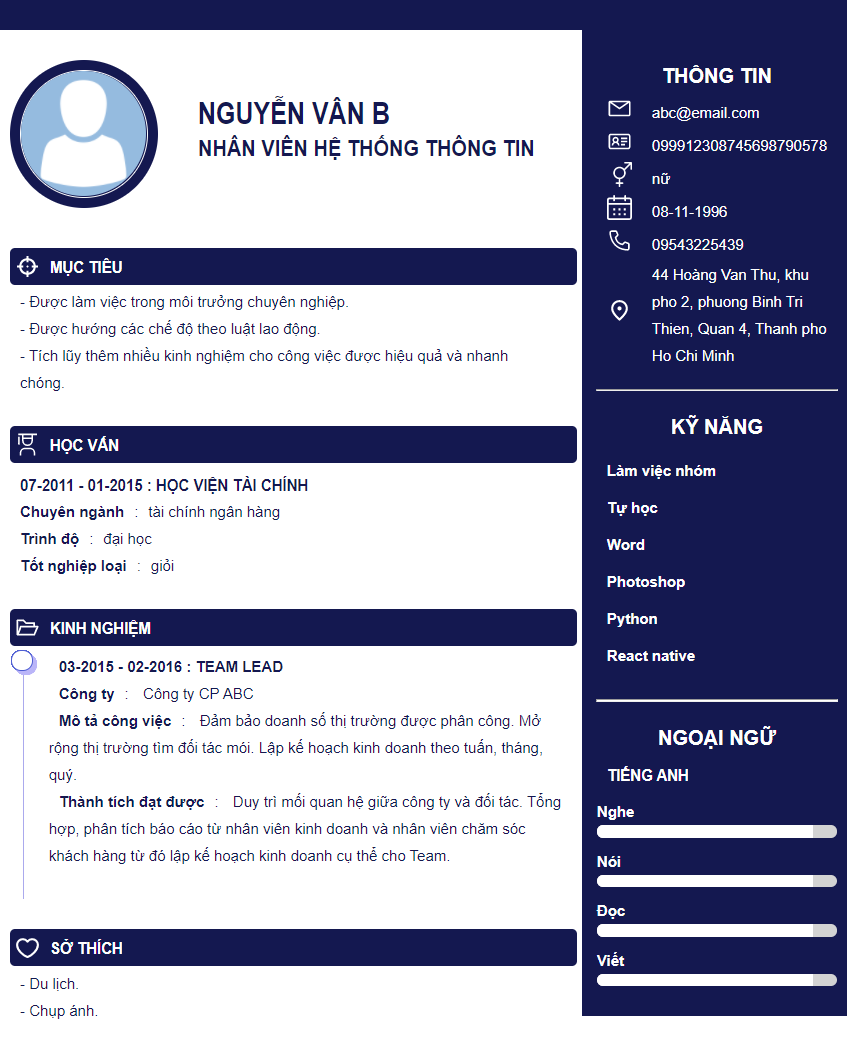
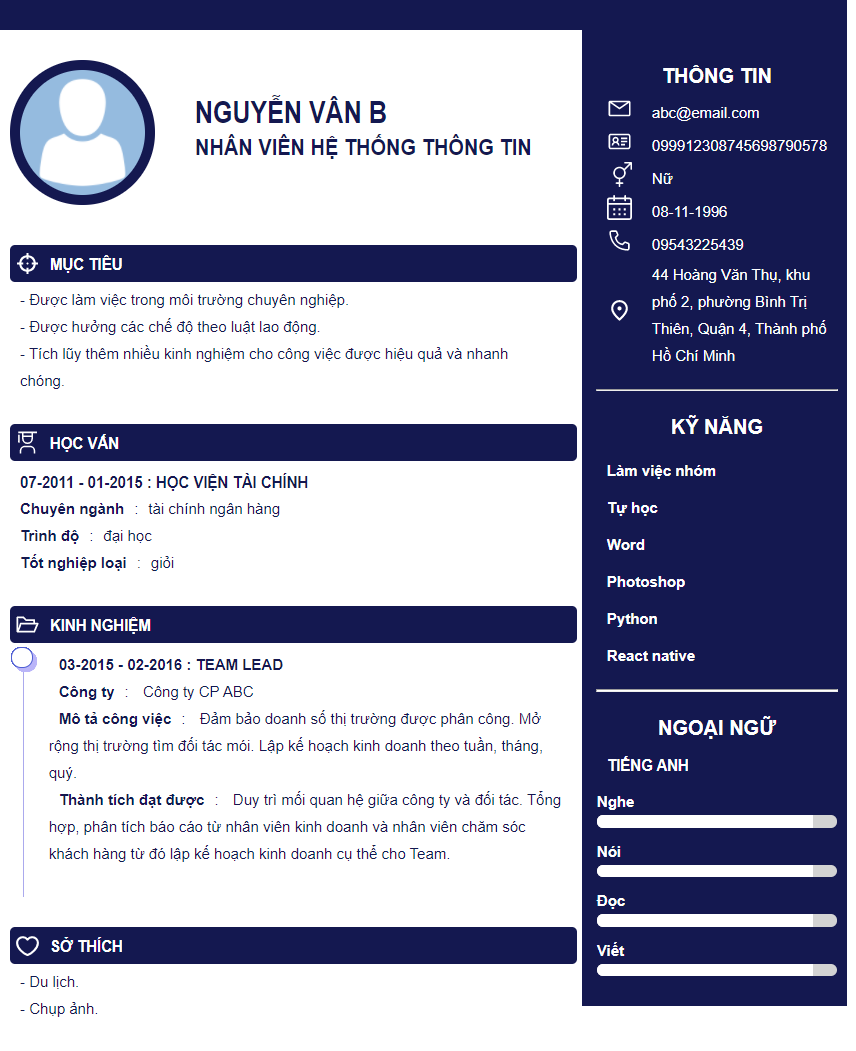
berries before

diff --git a/base.html b/base.html
@@ -11,7 +11,7 @@
     body {
         font-family: Arial, Helvetica, sans-serif;
         background-color: white;
-        color: teal;
+        color: #264143;
         margin: 0px;
         padding: 0px;
     }
@@ -70,14 +70,14 @@
     div.icon {
         padding: 8px;
         border-radius: 100px;
-        background-color: teal;
+        background-color: #264143;
     }
 
     hr {
         width: 100%;
         margin: 0px;
         margin-top: 16px;
-        border-top: 1px solid teal;
+        border-top: 1px solid #264143;
     }
 
     ul {
@@ -85,6 +85,7 @@
         padding: 0px;
         list-style-type: none;
         align-self: flex-start;
+        width: 100%;
     }
 
     ul li {
@@ -103,15 +104,26 @@
     }
 
     ul.profile.myself li span:nth-child(1) {
-        width: 80px;
+        min-width: 60px;
+        max-width: 150px;
+    }
+
+    ul.profile.language li {
+        flex-direction: column;
+        align-items: flex-start;
     }
 
     ul.profile.language li span:nth-child(1) {
-        width: 80px;
+        width: 100%;
+        margin-top: 8px;
+    }
+
+    ul.profile.language li div {
+        width: 100%;
     }
 
     div.bar-border {
-        width: 200px;
+        width: 100%;
         height: 10px;
         align-items: flex-start;
         border-radius: 100px;
@@ -121,7 +133,7 @@
 
     div.bar-score {
         height: 10px;
-        background-color: teal;
+        background-color: #264143;
     }
 
     .margin-base {
@@ -137,6 +149,15 @@
         height: 20px;
     }
 
+    li.timeline {
+        flex-direction: column;
+        align-items: flex-start;
+    }
+
+    p {
+        margin: 0;
+    }
+
     </style>
 </head>
 
@@ -145,12 +166,12 @@
         <div style="
         width: 40%;
         padding: 24px 12px 24px 8px;
-        border: 0px solid teal;
+        border: 0px solid #264143;
         border-right-width: 1px;
         ">
             <div class="icon" style="margin-bottom: 8px;">
-                <img style="border-radius: 100px;border: 1px solid white;" 
-                src= "https://res.cloudinary.com/good-assistant/image/upload/v1625845365/avatar/jxvswvdssyjedva5eql7.jpg"
+                <img style="border-radius: 50%;" 
+                src= "https://cdn.pixabay.com/photo/2016/08/08/09/17/avatar-1577909_960_720.png"
                 alt="Avatar" width="100" height="100">
             </div>
             <hr>
@@ -187,8 +208,8 @@
                     <span>09543225439</span>
                 </li>
                 <li>
-                    <span>Địa chi</span>
-                    <span>44 Hoàng Văn Thụ, khu phố 2, phường Bình Trị Thiên, Quận 4, Thành phố Hồ Chí Minh</span>
+                    <span>Địa chỉ</span>
+                    <span>44 Hoàng Văn Thụ, khu phố 2, phường Bình Trị Thiên</span>
                 </li>
             </ul>
             <div class="icon margin-padding">
@@ -201,12 +222,8 @@
             <hr>
             <h2 class="title">KỸ NĂNG</h2>
             <ul class="margin-base">
-                <li><span>làm việc nhóm</span></li>
-                <li><span>Tự học</span></li>
                 <li><span>word</span></li>
                 <li><span>photoshop</span></li>
-                <li><span>Python</span></li>
-                <li><span>react native</span></li>
             </ul>
             <div class="icon margin-padding">
                 <svg xmlns="http://www.w3.org/2000/svg" xmlns:xlink="http://www.w3.org/1999/xlink" aria-hidden="true" role="img" width="25" height="25" preserveAspectRatio="xMidYMid meet" viewBox="0 0 48 48">
@@ -215,7 +232,9 @@
             <hr>
             <h2 class="title">sở THÍCH</h2>
             <ul class="margin-base">
-                <li><span>Du lịch, chụp ánh.</span></li>
+                <li><span>Du lịch.</span></li>
+                <li><span>chụp ảnh.</span></li>
+
             </ul>
             <div class="icon margin-padding">
                 <svg xmlns="http://www.w3.org/2000/svg" xmlns:xlink="http://www.w3.org/1999/xlink" aria-hidden="true" role="img" width="25" height="25" preserveAspectRatio="xMidYMid meet" viewBox="0 0 32 32">
@@ -232,19 +251,19 @@
             <h2 class="title">NGƯỜI THAM KHẢO</h2>
             <ul class="profile margin-base">
                 <li>
-                    <h3>NGUYÊN VĂN B</h3>
+                    <h3>Tân Logic</h3>
                 </li>
                 <li>
                     <span>Công ty</span>:
-                    <span>Công ty CP ABC</span>
+                    <span>Tapcode</span>
                 </li>
                 <li>
                     <span>chức vụ</span>:
-                    <span>Phó giám đốc</span>
+                    <span>Tác giả</span>
                 </li>
                 <li>
                     <span>Email</span>:
-                    <span>nguyenvanb@gmail.com</span>
+                    <span>help@tapcode.cf</span>
                 </li>
                 <li>
                     <span>Điện thoại</span>:
@@ -271,20 +290,20 @@
             <hr>
             <h2 class="title">kinh nghiệm</h2>
             <ul class="profile margin-base">
-                <li>
-                    <h3 class="margin-base">03-2015 - 02-2016 : TEAM LEAD</h3>
-                </li>
-                <li>
-                    <span>Công ty</span>:
-                    <span>Công ty CP ABC</span>
-                </li>
-                <li>
-                    <span>Mô tả công việc</span>:
-                    <span>Đảm bảo doanh số thị trường được phân công. Mở rộng thị trường tìm đối tác mói. Lập kế hoạch kinh doanh theo tuần, tháng, quý.</span>
-                </li>
-                <li>
-                    <span>Thành tích đạt được</span>:
-                    <span>Duy trì mối quan hệ giữa công ty và đối tác. Tổng hợp, phân tích báo cáo từ nhân viên kinh doanh và nhân viên chăm sóc khách hàng từ đó lập kế hoạch kinh doanh cụ thể cho Team.</span>
+                <li class="timeline">
+                    <span class="margin-base">03-2015 - 02-2016 : TEAM LEAD</span>
+                    <p>
+                        <span>Công ty</span>:
+                        <span>Công ty CP ABC</span>
+                    </p>
+                    <p>
+                        <span>Mô tả công việc</span>:
+                        <span>Đảm bảo doanh số thị trường được phân công. Mở rộng thị trường tìm đối tác mói. Lập kế hoạch kinh doanh theo tuần, tháng, quý.</span>
+                    </p>
+                    <p>
+                        <span>Thành tích đạt được</span>:
+                        <span>Duy trì mối quan hệ giữa công ty và đối tác. Tổng hợp, phân tích báo cáo từ nhân viên kinh doanh và nhân viên chăm sóc khách hàng từ đó lập kế hoạch kinh doanh cụ thể cho Team.</span>
+                    </p>
                 </li>
             </ul>
             <div class="icon margin-padding">
@@ -298,7 +317,7 @@
             <h2 class="title">học vấn</h2>
             <ul class="profile margin-base">
                 <li>
-                    <h3 class="margin-base">07-2011 - 01 -2015 : HỌC VIỆN TÀI CHÍNH</h3>
+                    <h3 class="margin-base">07-2011 - 01-2015 : HỌC VIỆN TÀI CHÍNH</h3>
                 </li>
                 <li>
                     <span>chuyên ngành</span>:
@@ -321,33 +340,33 @@
             <hr>
             <h2 class="title">ngoại ngữ</h2>
             <ul class="profile language margin-base">
-                <li>
+                <li >
                     <h3 class="margin-base" >tiếng anh</h3>
-                </li>
-                <li>
-                    <span>nghe</span>
-                    <div class="bar-border">
-                        <div class="bar-score" style="width: 80%;"></div>
+                    <div>
+                        <span>nghe</span>
+                        <div class="bar-border">
+                            <div class="bar-score" style="width: 90%;"></div>
+                        </div>
                     </div>
-                </li>
-                <li>
-                    <span>nói</span>
-                    <div class="bar-border">
-                        <div class="bar-score" style="width: 90%;"></div>
-                    </div>
+                    <div>
+                        <span>nói</span>
+                        <div class="bar-border">
+                            <div class="bar-score" style="width: 90%;"></div>
+                        </div>
 
-                </li>
-                <li>
-                    <span>đọc</span>
-                    <div class="bar-border">
-                        <div class="bar-score" style="width: 100%;"></div>
                     </div>
+                    <div>
+                        <span>đọc</span>
+                        <div class="bar-border">
+                            <div class="bar-score" style="width: 90%;"></div>
+                        </div>
 
-                </li>
-                <li>
-                    <span>viết</span>
-                    <div class="bar-border">
-                        <div class="bar-score" style="width: 69%;"></div>
+                    </div>
+                    <div>
+                        <span>viết</span>
+                        <div class="bar-border">
+                            <div class="bar-score" style="width: 90%;"></div>
+                        </div>
                     </div>
                 </li>
             </ul>

diff --git a/vi/berries.html b/vi/berries.html
@@ -192,7 +192,7 @@
         ">
             <div style=" flex-direction: row;">
                 <div class="icon" style="margin-bottom: 8px;">
-                    <img style="border-radius: 100px;border: 1px solid white;"
+                    <img style="border-radius: 50%;" 
                     src= "https://cdn.pixabay.com/photo/2016/08/08/09/17/avatar-1577909_960_720.png"
                     alt="Avatar" width="100" height="100">
                 </div>
@@ -268,7 +268,7 @@
             </div>
             <ul class="margin-base">
                 <li><span>- Du lịch.</span></li>
-                <li><span>- Chụp ánh.</span></li>
+                <li><span>- Chụp ảnh.</span></li>
             </ul>
         </div>
 
@@ -325,7 +325,7 @@
             </ul>
             <hr>
             <h2 class="title margin-padding">ngoại ngữ</h2>
-            <ul class="profile language margin-base" style="width: 100%;">
+            <ul class="profile language margin-base">
                 <li >
                     <h3 class="margin-base" >tiếng anh</h3>
                     <div>
